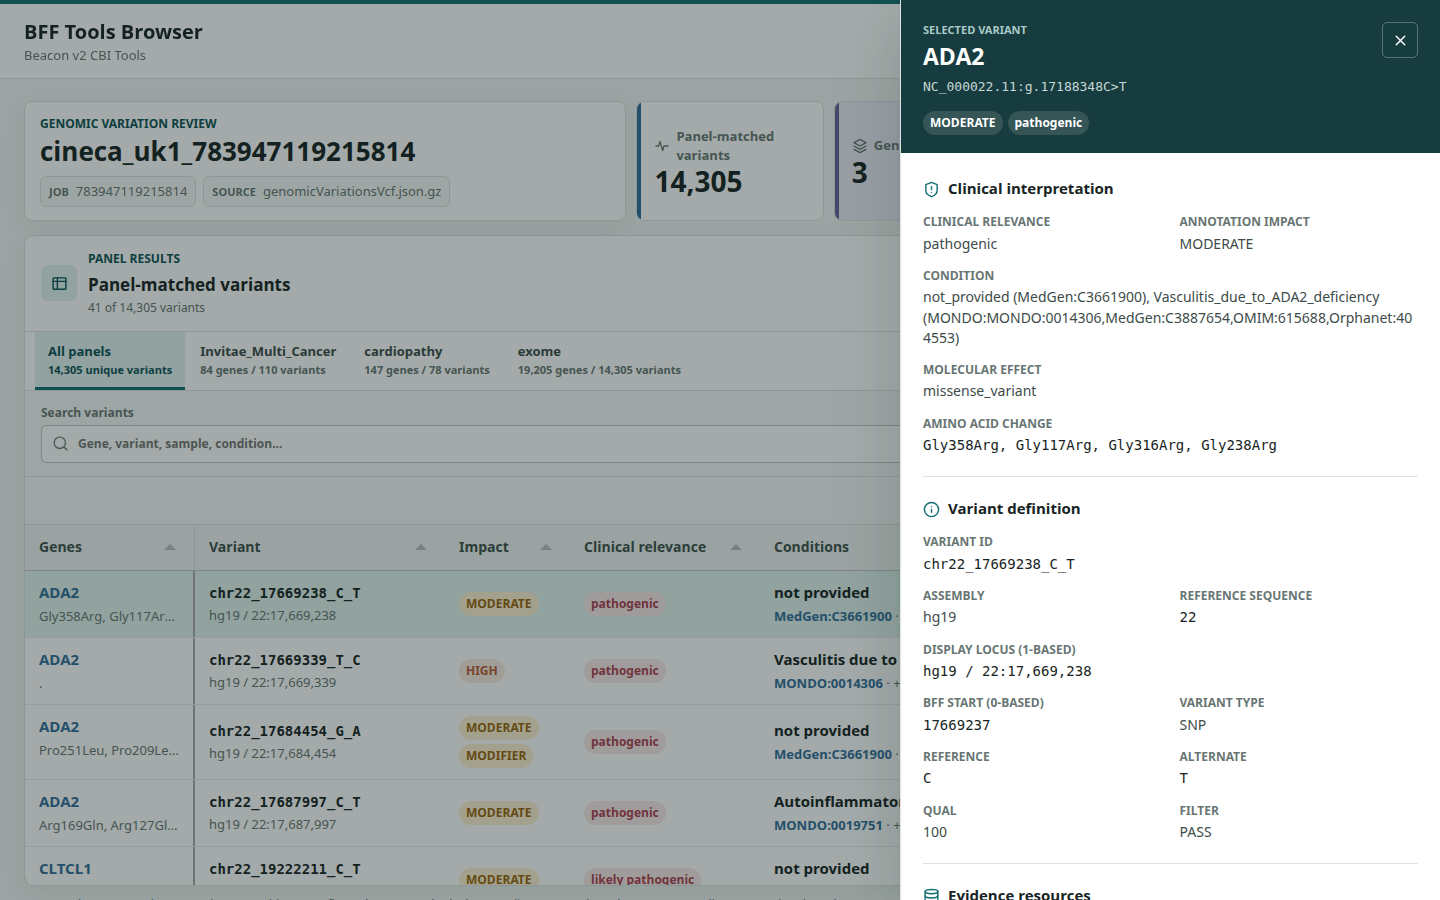
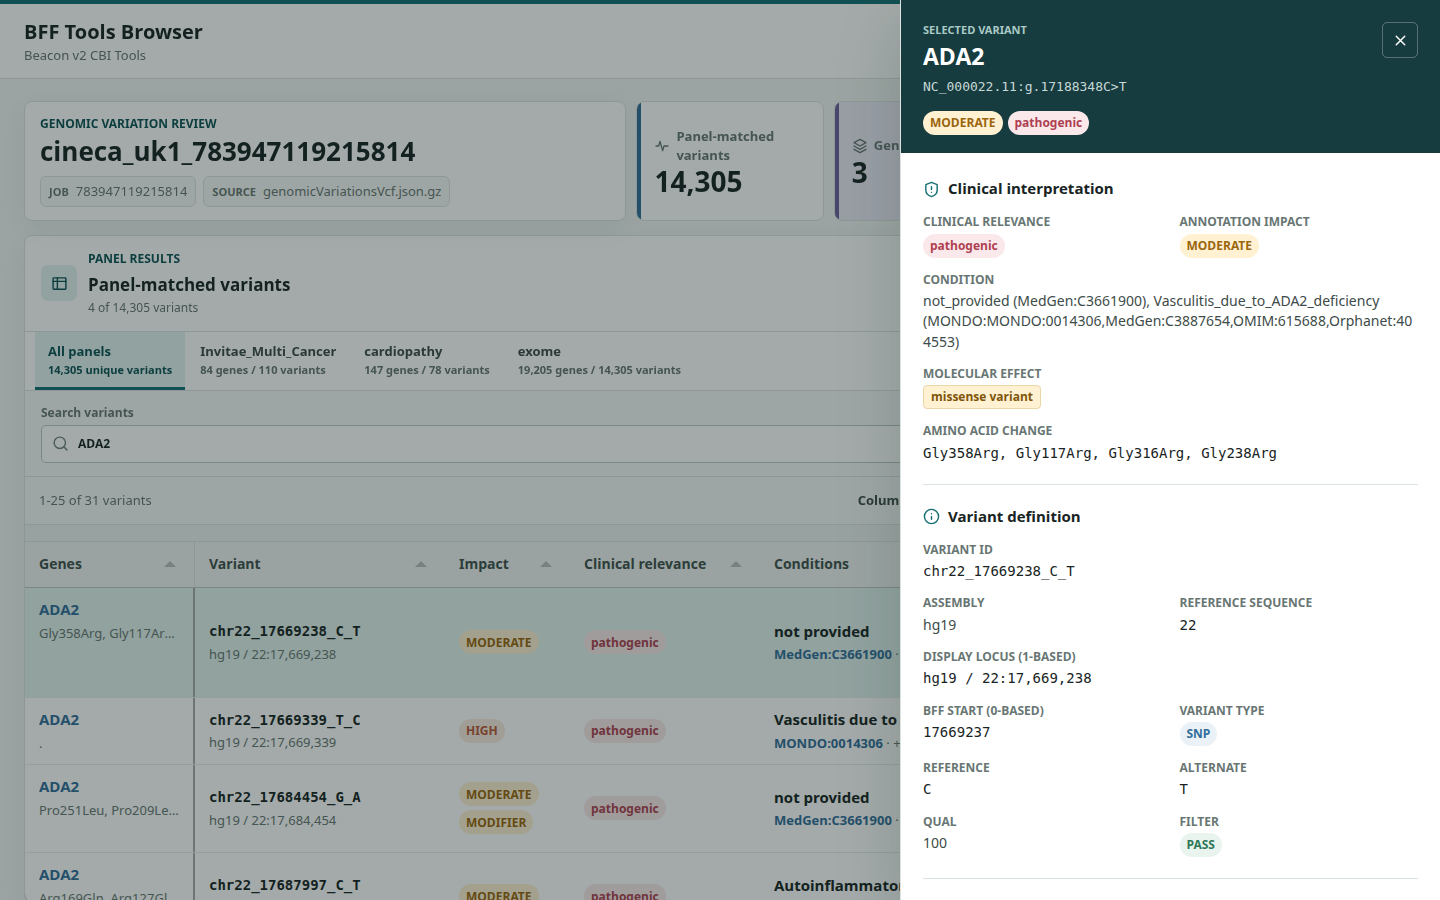
Color browser detail labels and update preview

diff --git a/src/bff_tools/browser_assets/report.html b/src/bff_tools/browser_assets/report.html
@@ -473,6 +473,7 @@
       .detail-field dt { margin: 0 0 3px; color: var(--muted); font-size: 12px; font-weight: 740; text-transform: uppercase; }
       .detail-field dd { margin: 0; color: var(--ink-soft); font-size: 14px; overflow-wrap: anywhere; }
       .detail-field dd.mono { color: var(--ink); }
+      .detail-field dd .badge-list, .detail-field dd .effect-list { margin-top: 2px; }
       .resource-links { display: flex; flex-wrap: wrap; gap: 7px; }
       .resource-link { min-height: 36px; display: inline-flex; align-items: center; gap: 6px; padding: 7px 9px; border: 1px solid var(--line); border-radius: 5px; color: var(--blue); font-size: 13px; font-weight: 720; text-decoration: none; }
       .resource-link:hover { border-color: var(--blue); background: var(--blue-soft); }
@@ -908,10 +909,8 @@
           return "neutral";
         }
 
-        function badgeFormatter(cell) {
-          var field = cell.getField();
-          var entries = values(cell.getValue());
-          if (!entries.length) return "";
+        function badgeList(field, value) {
+          var entries = values(value);
           var list = document.createElement("div");
           list.className = "badge-list";
           entries.forEach(function (value) {
@@ -923,6 +922,11 @@
           return list;
         }
 
+        function badgeFormatter(cell) {
+          var list = badgeList(cell.getField(), cell.getValue());
+          return list.children.length ? list : "";
+        }
+
         function effectKind(value) {
           var effect = value.toLowerCase();
           if (/(stop_gained|frameshift|splice_acceptor|splice_donor|start_lost|transcript_ablation)/.test(effect)) return "disruptive";
@@ -931,23 +935,28 @@
           return "neutral";
         }
 
-        function effectFormatter(cell) {
-          var entries = values(cell.getValue());
+        function effectList(value, limit) {
+          var entries = values(value);
           var list = document.createElement("div");
           list.className = "effect-list";
-          entries.slice(0, 2).forEach(function (value) {
+          var displayed = typeof limit === "number" ? entries.slice(0, limit) : entries;
+          displayed.forEach(function (value) {
             var chip = document.createElement("span");
             chip.className = "effect-chip " + effectKind(value);
             chip.textContent = value.replace(/_/g, " ");
             list.appendChild(chip);
           });
-          if (entries.length > 2) {
+          if (typeof limit === "number" && entries.length > limit) {
             var more = document.createElement("span");
             more.className = "effect-more";
-            more.textContent = "+" + (entries.length - 2) + " more";
+            more.textContent = "+" + (entries.length - limit) + " more";
             list.appendChild(more);
           }
           return list;
+        }
+
+        function effectFormatter(cell) {
+          return effectList(cell.getValue(), 2);
         }
 
         function biosampleFormatter(cell) {
@@ -1267,8 +1276,14 @@
             var term = document.createElement("dt");
             term.textContent = field.label;
             var description = document.createElement("dd");
-            description.textContent = text(field.value);
-            if (field.mono) description.className = "mono";
+            if (field.badgeField) {
+              description.appendChild(badgeList(field.badgeField, field.value));
+            } else if (field.effects) {
+              description.appendChild(effectList(field.value));
+            } else {
+              description.textContent = text(field.value);
+              if (field.mono) description.className = "mono";
+            }
             wrapper.append(term, description);
             container.appendChild(wrapper);
           });
@@ -1341,10 +1356,10 @@
             });
           });
           addDetailFields(document.getElementById("detail-clinical"), [
-            {label: "Clinical relevance", value: row.clinicalRelevance},
-            {label: "Annotation impact", value: row.annotationImpact},
+            {label: "Clinical relevance", value: row.clinicalRelevance, badgeField: "clinicalRelevance"},
+            {label: "Annotation impact", value: row.annotationImpact, badgeField: "annotationImpact"},
             {label: "Condition", value: row.conditionId, wide: true},
-            {label: "Molecular effect", value: row.molecularEffects, wide: true},
+            {label: "Molecular effect", value: row.molecularEffects, wide: true, effects: true},
             {label: "Amino acid change", value: row.aminoacidChanges, wide: true, mono: true}
           ]);
           addDetailFields(document.getElementById("detail-definition"), [
@@ -1353,11 +1368,11 @@
             {label: "Reference sequence", value: row.refseqId, mono: true},
             {label: "Display locus (1-based)", value: displayCoordinate(row), wide: true, mono: true},
             {label: "BFF start (0-based)", value: row.position, mono: true},
-            {label: "Variant type", value: row.variantType},
+            {label: "Variant type", value: row.variantType, badgeField: "variantType"},
             {label: "Reference", value: row.referenceBases, mono: true},
             {label: "Alternate", value: row.alternateBases, mono: true},
             {label: "QUAL", value: row.QUAL},
-            {label: "FILTER", value: row.FILTER}
+            {label: "FILTER", value: row.FILTER, badgeField: "FILTER"}
           ]);
           populateResources(row);
           addTags(document.getElementById("detail-panels"), row._panels || []);

diff --git a/docs-site/src/pages/index.tsx b/docs-site/src/pages/index.tsx
@@ -83,7 +83,7 @@ export default function Home() {
             <img
               className={styles.outputImage}
               src={browserVisual}
-              alt="BFF Tools Browser showing the clinical inspector for an annotated CINECA chromosome 22 variant"
+              alt="BFF Tools Browser showing an annotated CINECA variant with colored clinical, molecular-effect, type, and filter labels"
             />
             <div className={styles.mobileFlow}>
               <div><span>Input</span><strong>XLSX, JSON, VCF, or SNP-array data</strong></div>

diff --git a/tests/test_browser.py b/tests/test_browser.py
@@ -149,6 +149,18 @@ class BrowserTests(unittest.TestCase):
             self.assertNotIn('class="brand-mark"', text)
             self.assertIn('function effectFormatter(cell)', text)
             self.assertIn('.effect-chip.disruptive', text)
+            self.assertIn(
+                'description.appendChild(badgeList(field.badgeField, field.value))',
+                text,
+            )
+            self.assertIn(
+                '{label: "Molecular effect", value: row.molecularEffects, wide: true, effects: true}',
+                text,
+            )
+            self.assertIn(
+                '{label: "FILTER", value: row.FILTER, badgeField: "FILTER"}',
+                text,
+            )
             self.assertNotIn("Variant landscape", text)
             self.assertIn("project &lt;one&gt;", text)
             self.assertIn("<\\/script><script>alert(1)<\\/script>", text)